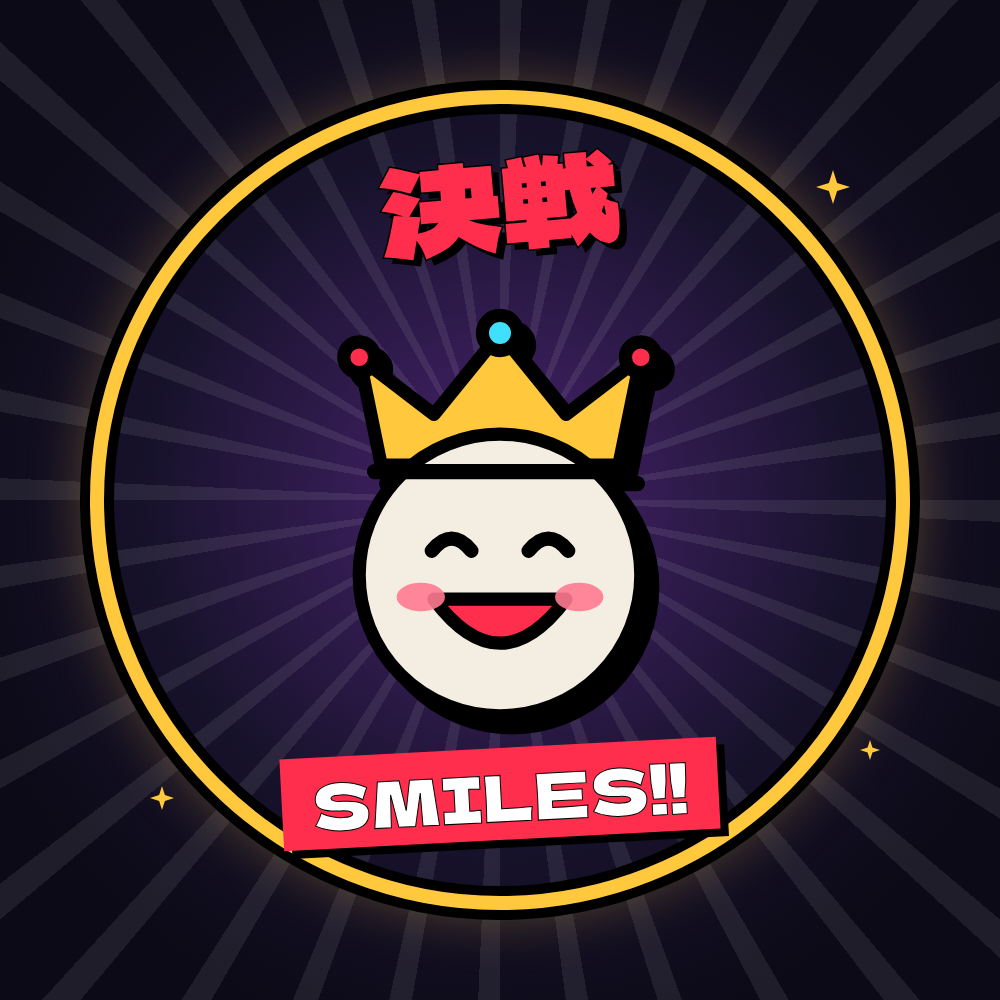
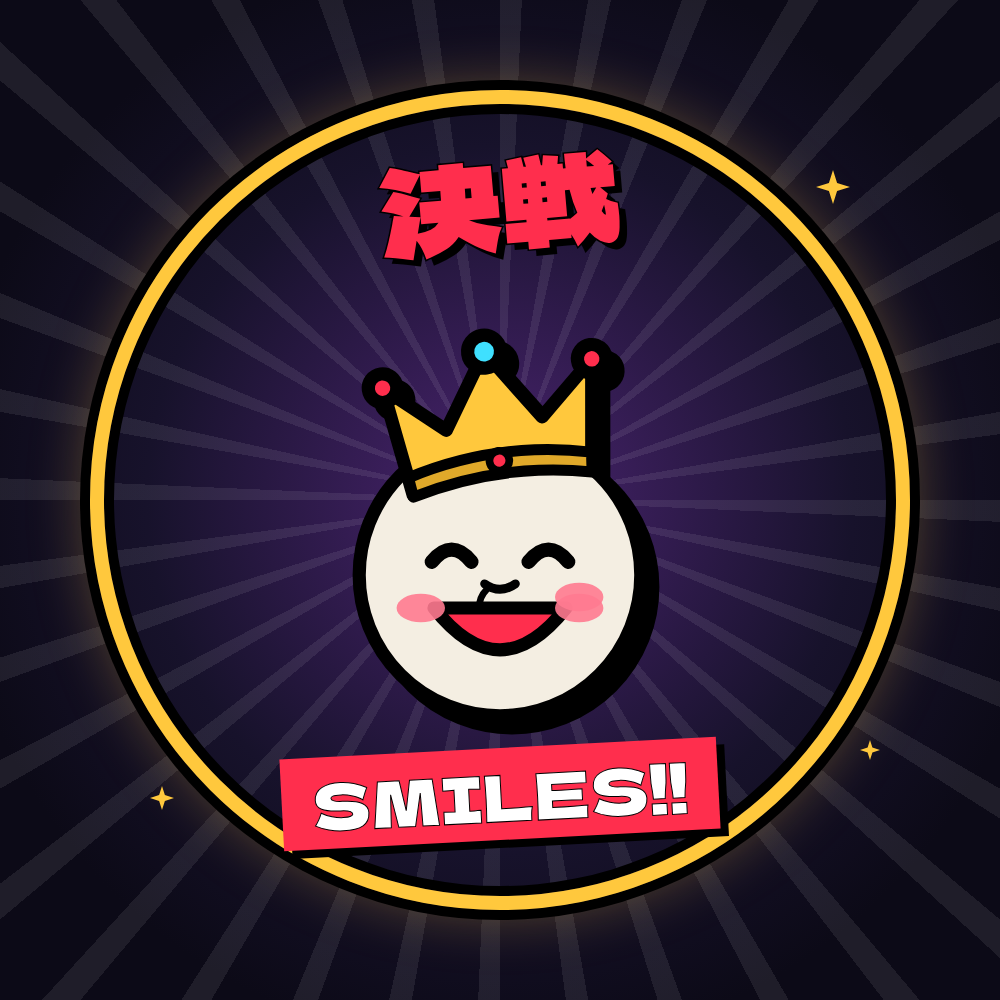
Smile Train profile photo: crown sits on the head; subtle cleft lip
Claude-Session: https://claude.ai/code/session_01MLqKewSTTUmg8nHWhZGz4v

Changed region(s): [[0.341, 0.31, 0.682, 0.682]]

diff --git a/fundraiser/smile-profile.html b/fundraiser/smile-profile.html
@@ -31,19 +31,25 @@ body{background:var(--ink)}
   <div class="jp">決戦</div>
   <svg class="king" viewBox="0 0 400 400" aria-hidden="true">
     <g stroke="#000" stroke-width="12" stroke-linejoin="round" stroke-linecap="round">
-      <!-- crown -->
-      <path d="M92 150 L72 52 L140 104 L200 30 L260 104 L328 52 L308 150 Z" fill="#ffc83d"/>
-      <circle cx="72" cy="52" r="14" fill="#ff2e4d"/><circle cx="200" cy="30" r="16" fill="#3fe0ff"/><circle cx="328" cy="52" r="14" fill="#ff2e4d"/>
       <!-- face -->
       <circle cx="200" cy="250" r="128" fill="#f4eee2"/>
-      <path d="M86 156 L314 156" stroke-width="14"/>
       <!-- happy closed eyes -->
-      <path d="M138 228 Q156 206 174 228" fill="none" stroke-width="13"/>
-      <path d="M226 228 Q244 206 262 228" fill="none" stroke-width="13"/>
+      <path d="M138 238 Q156 216 174 238" fill="none" stroke-width="13"/>
+      <path d="M226 238 Q244 216 262 238" fill="none" stroke-width="13"/>
       <!-- big grin -->
-      <path d="M140 272 Q200 352 260 272 Z" fill="#ff2e4d"/>
+      <path d="M140 280 Q200 356 260 280 Z" fill="#ff2e4d"/>
+      <!-- a small nose, and a subtle cleft lip: a soft line from the upper lip up to one nostril -->
+      <path d="M186 258 Q200 268 214 258" fill="none" stroke-width="8"/>
+      <path d="M181 280 Q181 270 188 263" fill="none" stroke-width="6"/>
+      <!-- crown, resting on the head: its band follows the curve of the head, tilted a touch for swagger -->
+      <g transform="rotate(-8 200 150)">
+        <path d="M118 166 L104 66 L156 112 L200 46 L244 112 L296 66 L282 166 Q200 146 118 166 Z" fill="#ffc83d"/>
+        <path d="M116 150 Q200 128 284 150 L282 168 Q200 148 118 168 Z" fill="#e0a92a" stroke-width="10"/>
+        <circle cx="104" cy="66" r="13" fill="#ff2e4d"/><circle cx="200" cy="46" r="15" fill="#3fe0ff"/><circle cx="296" cy="66" r="13" fill="#ff2e4d"/>
+        <circle cx="200" cy="146" r="9" fill="#ff2e4d" stroke-width="7"/>
+      </g>
     </g>
-    <ellipse cx="128" cy="270" rx="22" ry="13" fill="#ff7a90" opacity=".9"/><ellipse cx="272" cy="270" rx="22" ry="13" fill="#ff7a90" opacity=".9"/>
+    <ellipse cx="128" cy="280" rx="22" ry="13" fill="#ff7a90" opacity=".9"/><ellipse cx="272" cy="280" rx="22" ry="13" fill="#ff7a90" opacity=".9"/><ellipse cx="272" cy="270" rx="22" ry="13" fill="#ff7a90" opacity=".9"/>
   </svg>
   <div class="tag">SMILES!!</div>
   <i class="spark" style="right:150px;top:170px"></i>

diff --git a/README.md b/README.md
@@ -43,7 +43,7 @@ The 💝 **Donate** button links to three charities. **Your donation goes straig
 
 **Kessen Chess is not affiliated with or endorsed by these charities.**
 
-**Fundraiser cover photo.** [`fundraiser/justgiving-cover.png`](fundraiser/justgiving-cover.png) is a JustGiving cover photo for the Foodbank Queensland page, in the game's own style. It is 1000×563 (16:9), the largest size JustGiving accepts; a 2× copy is next to it. To change it, edit `fundraiser/justgiving-cover.html` and screenshot its `.cover` element at 1000×563. [`fundraiser/smile-profile.png`](fundraiser/smile-profile.png) is a 1000×1000 profile photo for the Smile Train page (a smiling king, everything inside the middle circle so a round crop keeps it); its source is `fundraiser/smile-profile.html`.
+**Fundraiser cover photo.** [`fundraiser/justgiving-cover.png`](fundraiser/justgiving-cover.png) is a JustGiving cover photo for the Foodbank Queensland page, in the game's own style. It is 1000×563 (16:9), the largest size JustGiving accepts; a 2× copy is next to it. To change it, edit `fundraiser/justgiving-cover.html` and screenshot its `.cover` element at 1000×563. [`fundraiser/smile-profile.png`](fundraiser/smile-profile.png) is a 1000×1000 profile photo for the Smile Train page (a smiling king with a subtle cleft lip, everything inside the middle circle so a round crop keeps it); its source is `fundraiser/smile-profile.html`.
 
 The panel also has the 🪙 **Penny Dropper**, a Plinko board that picks a charity at random for you. It's just for fun; no money is involved.
 
